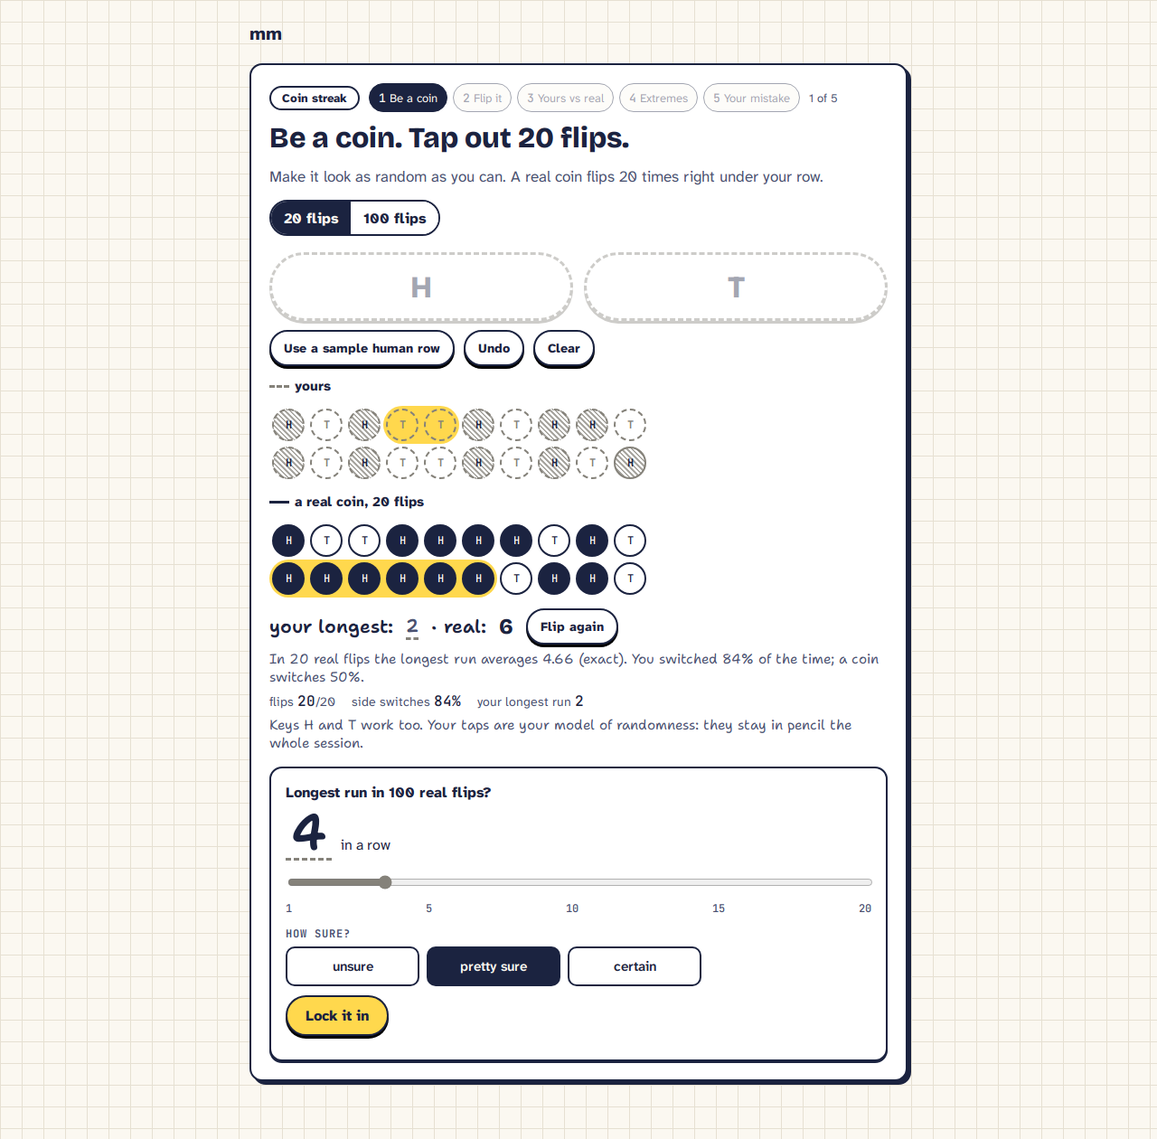
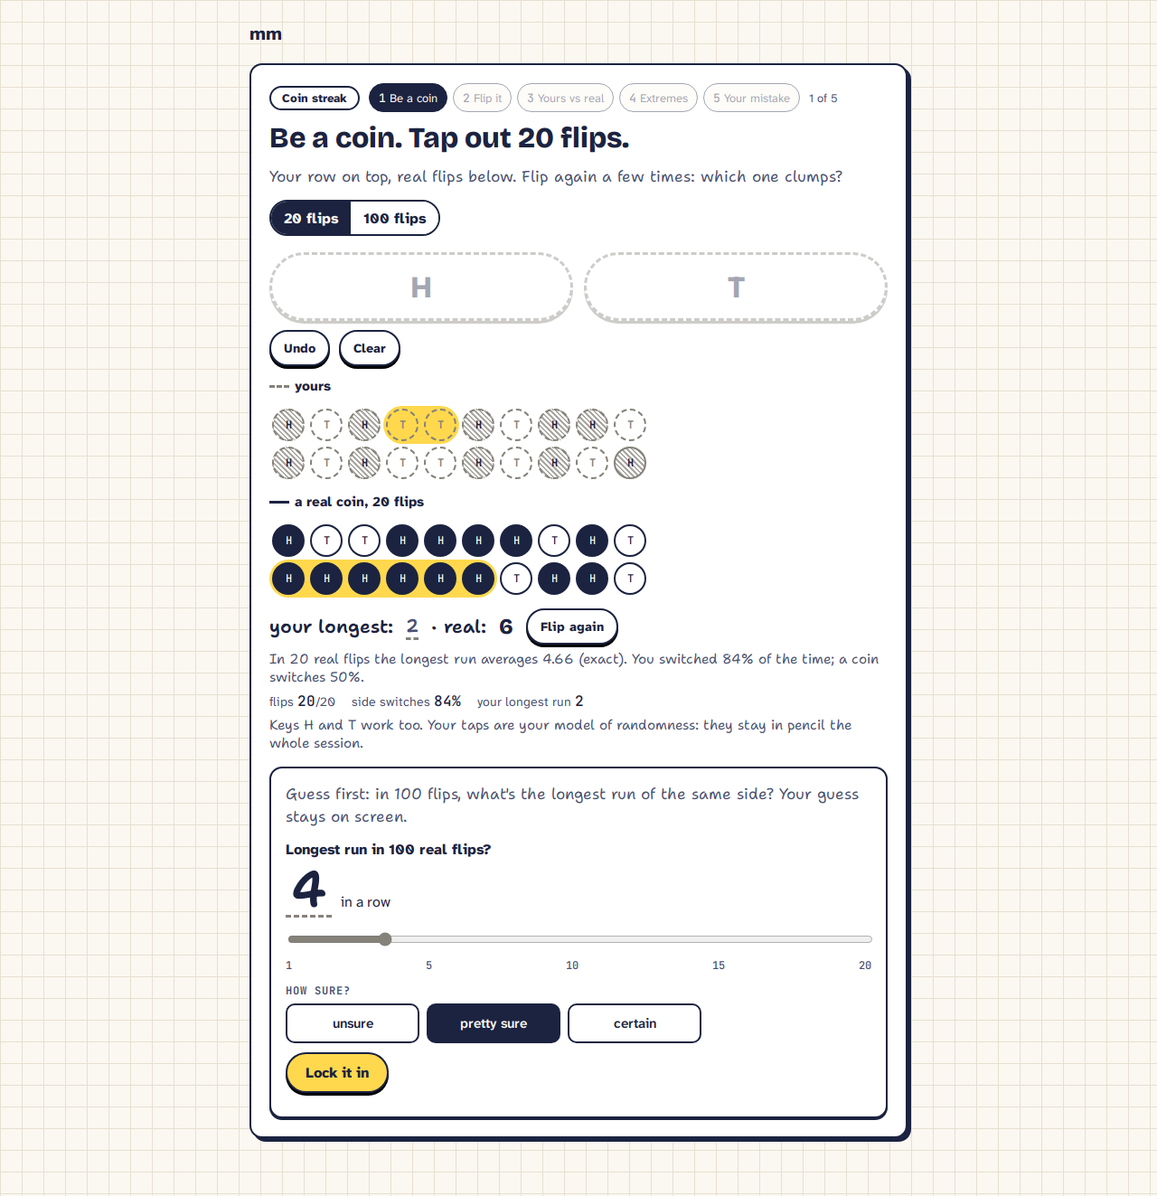
Coin session: guidance line on every step, no sample row, review nits
- one guidance line per screen (hand font, ink-soft), from the table in docs/experience.md; step 1 switches to the C2 line once the real row deals in
- drop 'Use a sample human row' and the sample fallback: you lock with your own 20+ taps
- guess slider starts unset, lock waits for a pick
- first real 100 tops out at 8 (seed 25), a typical row
- extremes: the ink truth number is the biggest type
- the dealt real row scrolls into view (360x640 had it below the fold)
- rematch rows stay plain ink after picking
- Home blurb says 20 flips; App test now checks the one coin entry on Home
- session test timeout 60 s; fresh screenshots

Changed region(s): [[0.2188, 0.0, 0.7812, 0.9595], [0.0, 0.9905, 1.0, 1.0]]

diff --git a/web/src/sessions/coin/CoinSession.tsx b/web/src/sessions/coin/CoinSession.tsx
@@ -7,7 +7,6 @@ import { fmt, pct, reducedMotion, sampleLabel } from './hooks'
 import {
   expectedLongest,
   flipSeq,
-  HUMAN_SAMPLE,
   longestOfFlips,
   longestRun,
   pLongestAtLeast,
@@ -49,10 +48,11 @@ export function CoinSession({ onDone }: { onDone: () => void }) {
   const dealRand = useRef(rng(10))
   const [deal, setDeal] = useState<Side[]>([]) // real flips dealt under your row, same length
   const [dealKey, setDealKey] = useState(0)
-  const [guess, setGuess] = useState(4)
+  const [guessSet, setGuessSet] = useState<number | null>(null) // unset until you move the slider: no anchor
+  const guess = guessSet ?? 0
   const [conf, setConf] = useState<Confidence | null>(null)
   const [locked, setLocked] = useState(false)
-  const rand = useRef(rng(20))
+  const rand = useRef(rng(25)) // seed: the first real 100 tops out at 8, a typical row (avg 6.98)
   const [real, setReal] = useState<Side[]>([])
   const [flipKey, setFlipKey] = useState(0)
   const [hist, setHist] = useState<number[]>(() => new Array(KMAX + 1).fill(0))
@@ -62,7 +62,7 @@ export function CoinSession({ onDone }: { onDone: () => void }) {
   const [newest, setNewest] = useState(0)
   const [running, setRunning] = useState(false)
   const heading = useRef<HTMLHeadingElement>(null)
-  const model = mine.length >= MIN_TAPS ? mine : HUMAN_SAMPLE
+  const model = mine // you can only lock (and leave step 1) with 20+ taps of your own
 
   const dealRow = useCallback((n: number) => {
     setDeal(flipSeq(n, dealRand.current))
@@ -192,11 +192,12 @@ export function CoinSession({ onDone }: { onDone: () => void }) {
       )}
       <section className="coin-step" aria-labelledby="coin-h">
         {step === 0 && (
-          <TapStep h={heading} len={len} pickLen={pickLen} deal={deal} dealKey={dealKey} onDeal={() => dealRow(len)} mine={mine} setMine={editMine} tap={tap} guess={guess} setGuess={setGuess} conf={conf} setConf={setConf} locked={locked} onLock={lock} onNext={() => go(1)} />
+          <TapStep h={heading} len={len} pickLen={pickLen} deal={deal} dealKey={dealKey} onDeal={() => dealRow(len)} mine={mine} setMine={editMine} tap={tap} guess={guessSet} setGuess={setGuessSet} conf={conf} setConf={setConf} locked={locked} onLock={lock} onNext={() => go(1)} />
         )}
         {step === 1 && (
           <>
             <h2 id="coin-h" ref={heading} tabIndex={-1}>Now a real coin. Flip it.</h2>
+            <p className="guide">Each dot is one real round of 100 flips. See where most of them land compared with your guess.</p>
             <div className="readout">
               <div><div className="big num">{longestRun(real)}</div><div className="lbl">longest run this time</div></div>
               <div><div className="big num">{pct(switchRate(real))}</div><div className="lbl">side switches</div></div>
@@ -216,7 +217,7 @@ export function CoinSession({ onDone }: { onDone: () => void }) {
             <Next onClick={() => go(2)}>Next: your coin vs the real one</Next>
           </>
         )}
-        {step === 2 && <CompareStep h={heading} model={model} real={real} usedSample={mine.length < MIN_TAPS} onNext={() => go(3)} />}
+        {step === 2 && <CompareStep h={heading} model={model} real={real} onNext={() => go(3)} />}
         {step === 3 && <ExtremeStep h={heading} model={model} guess={guess} onNext={() => go(4)} />}
         {step === 4 && (
           <CardStep h={heading} model={model} guess={guess} round={round} conf={conf ?? 'pretty sure'} verdict={verdictFor(item, answer, E100)} misId={misconceptionFor(item, answer)} onRestart={restart} onDone={onDone} />
@@ -246,14 +247,27 @@ function Next({ onClick, children }: { onClick: () => void; children: React.Reac
   )
 }
 
-function TapStep(p: { h: H; len: number; pickLen: (n: number) => void; deal: Side[]; dealKey: number; onDeal: () => void; mine: Side[]; setMine: (m: Side[]) => void; tap: (c: Side) => void; guess: number; setGuess: (g: number) => void; conf: Confidence | null; setConf: (c: Confidence) => void; locked: boolean; onLock: () => void; onNext: () => void }) {
+function TapStep(p: { h: H; len: number; pickLen: (n: number) => void; deal: Side[]; dealKey: number; onDeal: () => void; mine: Side[]; setMine: (m: Side[]) => void; tap: (c: Side) => void; guess: number | null; setGuess: (g: number) => void; conf: Confidence | null; setConf: (c: Confidence) => void; locked: boolean; onLock: () => void; onNext: () => void }) {
   const { mine, locked, h, setMine, tap, guess, setGuess, conf, setConf, onLock, onNext, len, pickLen, deal, dealKey, onDeal } = p
   const full = mine.length >= len && deal.length === len
-  const ready = mine.length >= MIN_TAPS && conf != null
+  const ready = mine.length >= MIN_TAPS && guess != null && conf != null
+  // When the real row deals in (tap 20, Flip again), bring it on screen: on a 360x640 phone it lands below the fold.
+  const realRef = useRef<HTMLParagraphElement>(null)
+  const seenDeal = useRef(dealKey)
+  useEffect(() => {
+    if (!full || seenDeal.current === dealKey) return
+    seenDeal.current = dealKey
+    realRef.current?.scrollIntoView?.({ block: 'nearest', behavior: reducedMotion() ? 'auto' : 'smooth' })
+  }, [full, dealKey])
+  const lockText = mine.length < MIN_TAPS ? 'Lock it in' : guess == null ? 'Move the slider to guess' : conf ? 'Lock it in' : 'Pick how sure you are'
   return (
     <>
       <h2 id="coin-h" ref={h} tabIndex={-1}>Be a coin. Tap out {len} flips.</h2>
-      <p className="lede">Make it look as random as you can. A real coin flips {len} times right under your row.</p>
+      <p className="guide">
+        {full
+          ? 'Your row on top, real flips below. Flip again a few times: which one clumps?'
+          : `Make up ${len} coin flips the way you think a fair coin looks. We'll compare yours with real ones.`}
+      </p>
       <div className="lenpick" role="radiogroup" aria-label="row length">
         {[20, 100].map((n) => (
           <button key={n} role="radio" aria-checked={len === n} className={len === n ? 'on' : ''} disabled={locked} onClick={() => pickLen(n)}>
@@ -266,7 +280,6 @@ function TapStep(p: { h: H; len: number; pickLen: (n: number) => void; deal: Sid
         <button className="tap" aria-label="Tails (key T)" disabled={locked || mine.length >= len} onClick={() => tap('T')}>T</button>
       </div>
       <div className="row">
-        <button className="btn ghost small" disabled={locked} onClick={() => setMine(HUMAN_SAMPLE.slice(0, len))}>Use a sample human row</button>
         <button className="btn ghost small" disabled={locked || !mine.length} onClick={() => setMine(mine.slice(0, -1))}>Undo</button>
         <button className="btn ghost small" disabled={locked || !mine.length} onClick={() => setMine([])}>Clear</button>
       </div>
@@ -276,7 +289,7 @@ function TapStep(p: { h: H; len: number; pickLen: (n: number) => void; deal: Sid
         <>
           <h3 className="rowname"><i className="l-truth" />a real coin, {len} flips</h3>
           <CoinGrid key={dealKey} seq={deal} hiLongest fresh={!reducedMotion()} cols={len === 20 ? 10 : undefined} label={`${len} real flips, longest run ${longestRun(deal)}`} />
-          <p className="tally" aria-live="polite">
+          <p className="tally" aria-live="polite" ref={realRef}>
             your longest: <b className="you">{longestRun(mine)}</b> · real: <b className="ink">{longestRun(deal)}</b>
             <button className="btn ghost small" onClick={onDeal}>Flip again</button>
           </p>
@@ -292,12 +305,26 @@ function TapStep(p: { h: H; len: number; pickLen: (n: number) => void; deal: Sid
       </div>
       <p className="note">Keys H and T work too. Your taps are your model of randomness: they stay in pencil the whole session.</p>
       <div className={`card guessbox ${locked ? 'is-locked' : ''}`}>
+        <p className="guide">Guess first: in 100 flips, what's the longest run of the same side? Your guess stays on screen.</p>
         <label htmlFor="coin-guess" className="q">Longest run in 100 real flips?</label>
         <div className="guessnum">
-          <span className="big">{guess}</span><span>in a row</span>
+          <span className="big">{guess ?? '?'}</span><span>in a row</span>
           {locked && <span className="stamp locked">locked</span>}
         </div>
-        <input id="coin-guess" type="range" min={1} max={20} step={1} value={guess} disabled={locked} onChange={(e) => setGuess(+e.target.value)} />
+        <input
+          id="coin-guess"
+          type="range"
+          className={guess == null ? 'unset' : ''}
+          min={1}
+          max={20}
+          step={1}
+          value={guess ?? 10}
+          aria-valuetext={guess == null ? 'not set yet' : `${guess} in a row`}
+          disabled={locked}
+          onChange={(e) => setGuess(+e.target.value)}
+          // a click right on the resting thumb doesn't fire change; it still counts as a pick
+          onPointerUp={(e) => guess == null && setGuess(+e.currentTarget.value)}
+        />
         <div className="ticks"><span>1</span><span>5</span><span>10</span><span>15</span><span>20</span></div>
         <div className="tag sure">how sure?</div>
         <div className="confs" role="group" aria-label="how sure are you">
@@ -309,7 +336,7 @@ function TapStep(p: { h: H; len: number; pickLen: (n: number) => void; deal: Sid
           {locked ? (
             <button className="btn" onClick={onNext}>Back to the real coin →</button>
           ) : (
-            <button className="btn lockbtn" disabled={!ready} onClick={onLock}>{mine.length < MIN_TAPS || conf ? 'Lock it in' : 'Pick how sure you are'}</button>
+            <button className="btn lockbtn" disabled={!ready} onClick={onLock}>{lockText}</button>
           )}
           {!locked && mine.length < MIN_TAPS && <span className="note">tap at least {MIN_TAPS} flips first ({mine.length} so far)</span>}
         </div>
@@ -318,7 +345,7 @@ function TapStep(p: { h: H; len: number; pickLen: (n: number) => void; deal: Sid
   )
 }
 
-function CompareStep({ h, model, real, usedSample, onNext }: { h: H; model: Side[]; real: Side[]; usedSample: boolean; onNext: () => void }) {
+function CompareStep({ h, model, real, onNext }: { h: H; model: Side[]; real: Side[]; onNext: () => void }) {
   const nReal = runs(real).filter((r) => r.len >= 5).length
   const nMine = runs(model).filter((r) => r.len >= 5).length
   const sw = switchRate(model)
@@ -326,7 +353,7 @@ function CompareStep({ h, model, real, usedSample, onNext }: { h: H; model: Side
   return (
     <>
       <h2 id="coin-h" ref={h} tabIndex={-1}>Your coin vs the real coin</h2>
-      {usedSample && <p className="note">You tapped fewer than {MIN_TAPS}, so this uses the sample human row.</p>}
+      <p className="guide">Your row next to a real 100, runs of 5 or more marked. Which one clumps?</p>
       <div className="pair">
         <div>
           <h3><i className="l-you" />yours{scaled}</h3>
@@ -381,9 +408,10 @@ function ExtremeStep({ h, model, guess, onNext }: { h: H; model: Side[]; guess: 
   return (
     <>
       <h2 id="coin-h" ref={h} tabIndex={-1}>More flips, longer streaks?</h2>
+      <p className="guide">Drag to flip more or fewer coins. Watch how slowly, but surely, streaks grow.</p>
       <div className="ext-head">
         <div><div className="n num">{fmt(n)}</div><small>flips</small></div>
-        <div><div className="v num">{truthNow.toFixed(2)}</div><small>expected longest run, real coin (exact)</small></div>
+        <div><div className="v truth num">{truthNow.toFixed(2)}</div><small>expected longest run, real coin (exact)</small></div>
         <div><div className="v you">{youNow.toFixed(1)}</div><small>a coin that switches like you (exact)</small></div>
       </div>
       <label htmlFor="coin-n" className="q">Number of flips</label>
@@ -436,6 +464,7 @@ function CardStep(p: {
   return (
     <>
       <h2 id="coin-h" ref={h} tabIndex={-1} className="sr-only">Your mistake, named</h2>
+      <p className="guide">This is the mistake your guess points to, and the one idea that fixes it.</p>
       <div className="card verdict-card">
         <span className={`stamp ${verdict === 'called' ? 'called' : verdict === 'close' ? 'close' : 'mistake'}`}>{stamp}</span>
         <p className="said">
@@ -452,7 +481,7 @@ function CardStep(p: {
         {m && <p className="why">{m.refutation}</p>}
         <p className="src">
           {m?.source_url ? <><a href={m.source_url} target="_blank" rel="noreferrer">Source</a>: {m.source_note}. </> : null}
-          Numbers here are exact (dynamic programming over run length) unless marked simulated. The sample human row's 68% switch rate is our own parameter (unverified).
+          Numbers here are exact (dynamic programming over run length) unless marked simulated.
         </p>
         <WhichIsReal
           round={round}
@@ -505,6 +534,7 @@ function WhichIsReal({ round, onPick }: { round: NonNullable<ReturnType<typeof s
   return (
     <div className="tryit">
       <div className="tag">try it on</div>
+      <p className="guide">One more: spot the real coin. Does the idea stick?</p>
       <p className="q">One of these {n}-flip rows was flipped, one was made up by a person. Which is the real coin?</p>
       <div className="choice">
         {pair.map(([id, s]) => (
@@ -520,7 +550,7 @@ function WhichIsReal({ round, onPick }: { round: NonNullable<ReturnType<typeof s
             }}
           >
             <b>{up(id)}</b>
-            <CoinGrid seq={s} cols={10} hiLongest={!!pick} mine={!!pick && id !== real} label={`${up(id)}: ${s.join('')}`} />
+            <CoinGrid seq={s} cols={10} hiLongest={!!pick} label={`${up(id)}: ${s.join('')}`} />
             {pick && <span className="tile-note">{id === real ? 'real coin' : 'made up'}, longest run {longestRun(s)}</span>}
           </button>
         ))}

diff --git a/web/src/sessions/coin/CoinSession.test.tsx b/web/src/sessions/coin/CoinSession.test.tsx
@@ -15,6 +15,8 @@ describe('coin streak session', () => {
     vi.stubGlobal('matchMedia', (q: string) => ({ matches: q.includes('reduce'), media: q }))
     const done = vi.fn()
     render(<CoinSession onDone={done} />)
+    expect(screen.getByText(/^Make up 20 coin flips/)).toBeTruthy()
+    expect(screen.queryByText(/sample human row/)).toBeNull() // no fill-for-me: the point is your own pattern
 
     const lock = screen.getByText('Lock it in') as HTMLButtonElement
     expect(lock.disabled).toBe(true)
@@ -23,9 +25,13 @@ describe('coin streak session', () => {
     expect(screen.getByText('20', { selector: '.stats b' })).toBeTruthy()
     // the row is full: 20 real flips deal in under it, with the tally
     expect(screen.getByText('a real coin, 20 flips')).toBeTruthy()
+    expect(screen.getByText(/^Your row on top, real flips below. Flip again/)).toBeTruthy() // guidance moves on once the deal lands
     expect(screen.getByText(/your longest:/).textContent).toMatch(/your longest: 1 · real: \d+/)
     expect(screen.getByText(/In 20 real flips the longest run averages 4\.66/)).toBeTruthy()
     fireEvent.click(screen.getByText('Flip again'))
+    // the guess starts unset (no anchor): lock waits for the slider to move
+    expect(lock.textContent).toBe('Move the slider to guess')
+    expect(screen.getByText('?', { selector: '.guessnum .big' })).toBeTruthy()
     fireEvent.change(screen.getByLabelText('Longest run in 100 real flips?'), { target: { value: '3' } })
     // like the birthday session: pick how sure before locking
     expect(lock.disabled).toBe(true)
@@ -36,6 +42,7 @@ describe('coin streak session', () => {
     await act(async () => vi.advanceTimersByTime(50))
 
     expect(screen.getByText('Now a real coin. Flip it.')).toBeTruthy()
+    expect(screen.getByText(/^Each dot is one real round of 100 flips/)).toBeTruthy() // guidance line
     expect(screen.getByText('6.98')).toBeTruthy() // exact mean in ink
     expect(screen.getByText('97.2%')).toBeTruthy() // exact P(run of 5+)
     expect(screen.getByText(/real average 6\.98 \(exact\)/)).toBeTruthy() // truth line is labeled
@@ -50,15 +57,19 @@ describe('coin streak session', () => {
 
     next(/your coin vs the real one/)
     expect(screen.getByText('Your coin vs the real coin')).toBeTruthy()
+    expect(screen.getByText(/^Your row next to a real 100/)).toBeTruthy()
     expect(screen.getByText(/You switched 100% of the time/)).toBeTruthy()
 
     next(/push it to 10,000 flips/)
+    expect(screen.getByText(/^Drag to flip more or fewer coins/)).toBeTruthy()
     fireEvent.click(screen.getByRole('button', { name: '10,000' }))
     expect(screen.getByText('13.62')).toBeTruthy()
     fireEvent.click(screen.getByRole('button', { name: '10' }))
     expect(screen.getByText('3.66')).toBeTruthy()
 
     next(/what your taps say/)
+    expect(screen.getByText(/^This is the mistake your guess points to/)).toBeTruthy()
+    expect(screen.getByText(/^One more: spot the real coin/)).toBeTruthy()
     expect(screen.getAllByText('Random means evenly mixed').length).toBeGreaterThan(0)
     expect(screen.getByText(/A real coin goes past 3 in/)).toBeTruthy()
     expect(screen.getByText(/You said/).textContent).toBe('You said 3 (certain). A real 100 averages 6.98.')
@@ -67,6 +78,8 @@ describe('coin streak session', () => {
     fireEvent.click(screen.getByRole('button', { name: /^A: / }))
     expect(screen.getByText(/B was the real coin/)).toBeTruthy()
     expect(screen.getByText(/In 20 real flips/)).toBeTruthy()
+    // both rematch rows stay plain ink: pencil only ever means "you"
+    expect(document.querySelectorAll('.tryit .mine').length).toBe(0)
     // saved to the same notebook as the birthday session, once
     expect(screen.getByText('Saved.')).toBeTruthy()
     const saved = JSON.parse(localStorage.getItem('mm.sessions') ?? '[]')
@@ -79,7 +92,7 @@ describe('coin streak session', () => {
     expect(JSON.parse(localStorage.getItem('mm.sessions') ?? '[]')).toHaveLength(1)
     vi.useRealTimers()
     vi.unstubAllGlobals()
-  }, 30000)
+  }, 60000)
 
   it('keeps the 20-flip deal clean: extra taps, undo, clear, length toggles', () => {
     render(<CoinSession onDone={() => {}} />)
@@ -125,7 +138,7 @@ describe('coin streak session', () => {
     expect(flips()).toBe('flips 20/20')
     expect(realRow()).toBeTruthy()
     expect(document.body.textContent).not.toMatch(/NaN/)
-  }, 30000)
+  }, 60000)
 })
 
 describe('sample label', () => {

diff --git a/web/src/sessions/coin/coin.css b/web/src/sessions/coin/coin.css
@@ -11,7 +11,10 @@
 .coin-session h2:focus { outline: none; }
 .coin-session h3 { margin: 0; }
 .coin-session .num { font-family: var(--font-mono); font-variant-numeric: tabular-nums; }
-.coin-session .lede { font-size: 17px; line-height: 1.45; margin: 0 0 14px; color: var(--ink-soft); }
+/* the one guidance line per screen, like the birthday session's subtitle */
+.coin-session .guide { font: 17px/1.45 var(--font-hand); color: var(--ink-soft); margin: 0 0 14px; max-width: 46em; }
+.coin-session .tryit .guide { margin: 4px 0 8px; }
+.coin-session input[type='range'].unset { opacity: .55; }
 .coin-session .note { font-family: var(--font-hand); color: var(--ink-soft); font-size: 15px; margin: 6px 0; }
 .coin-session .q { font-weight: 800; display: block; margin: 0 0 6px; }
 .coin-session .tag { font: 600 12px var(--font-mono); text-transform: uppercase; letter-spacing: .08em; color: var(--ink-soft); }
@@ -137,10 +140,12 @@
 
 /* step 4 */
 .coin-session .ext-head { display: flex; gap: 12px 24px; flex-wrap: wrap; align-items: flex-end; margin: 8px 0 14px; }
-.coin-session .ext-head .n, .coin-session .ext-head .v { font: 800 44px/1 var(--font-display); }
+.coin-session .ext-head .n, .coin-session .ext-head .v { font: 800 34px/1 var(--font-display); }
+/* the ink truth is the biggest number on the screen */
+.coin-session .ext-head .v.truth { font-size: 56px; }
 .coin-session .ext-head .v.you { font-family: var(--font-hand); font-weight: 600; color: var(--ink-soft); border-bottom: 3px dashed var(--pencil); }
 .coin-session .ext-head small { display: block; font-size: 13px; color: var(--ink-soft); margin-top: 4px; max-width: 14em; }
-@media (max-width: 600px) { .coin-session .ext-head .n, .coin-session .ext-head .v { font-size: 34px; } }
+@media (max-width: 600px) { .coin-session .ext-head .n, .coin-session .ext-head .v { font-size: 26px; } .coin-session .ext-head .v.truth { font-size: 42px; } }
 .coin-session .hand-ticks button { font: 600 14px var(--font-hand); background: none; border: 0; padding: 6px 2px; min-height: 32px; color: var(--ink-soft); }
 .coin-session .hand-ticks button.on { color: var(--ink); text-decoration: underline 3px var(--marker); }
 .coin-session .breaknote { font: 600 18px var(--font-hand); margin: 10px 0 0; min-height: 2.6em; line-height: 1.4; }

diff --git a/web/src/App.test.tsx b/web/src/App.test.tsx
@@ -1,36 +1,19 @@
 // @vitest-environment jsdom
-import { act, cleanup, fireEvent, render, screen } from '@testing-library/react'
-import { afterEach, describe, expect, it, vi } from 'vitest'
+import { cleanup, fireEvent, render, screen } from '@testing-library/react'
+import { afterEach, describe, expect, it } from 'vitest'
 import App from './App'
 
 afterEach(cleanup)
 
-describe('coin streak round', () => {
-  it('plays predict → lock → reveal', async () => {
-    vi.useFakeTimers()
+describe('coin streak on Home', () => {
+  it('shows one coin entry, and it opens the coin session', () => {
     render(<App />)
-    fireEvent.click(screen.getByText('Streaks in coin flips'))
-
-    const lock = screen.getByText('Lock it in') as HTMLButtonElement
-    expect(lock.disabled).toBe(true)
-    fireEvent.change(screen.getByLabelText('your guess'), { target: { value: '3' } })
-    fireEvent.click(screen.getByText('certain'))
-    expect(lock.disabled).toBe(false)
-    fireEvent.click(lock)
-
-    expect(screen.getByText(/locked: 3 · certain/)).toBeTruthy()
-    expect(screen.queryByText('Way off')).toBeNull() // no truth before the beat
-    await act(async () => vi.advanceTimersByTime(500))
-    expect(screen.getByText('Way off')).toBeTruthy()
-    expect(screen.getByText(/Random means evenly mixed/)).toBeTruthy()
-    expect(screen.getByLabelText(/average 7\.0/)).toBeTruthy()
-
-    fireEvent.click(screen.getByText('Next'))
-    fireEvent.click(screen.getByText('B (has runs of 4)'))
-    fireEvent.click(screen.getByText('pretty sure'))
-    fireEvent.click(screen.getByText('Lock it in'))
-    await act(async () => vi.advanceTimersByTime(500))
-    expect(screen.getByText('Called it')).toBeTruthy()
-    vi.useRealTimers()
+    // the old "Streaks in coin flips" round shares the coin-streak slug, so the session replaces it
+    expect(screen.queryByText('Streaks in coin flips')).toBeNull()
+    expect(screen.getAllByText('Be a coin')).toHaveLength(1)
+    expect(screen.getByText(/Tap out 20 flips/)).toBeTruthy()
+    fireEvent.click(screen.getByText('Be a coin'))
+    expect(screen.getByText('Be a coin. Tap out 20 flips.')).toBeTruthy()
+    expect((screen.getByText('Lock it in') as HTMLButtonElement).disabled).toBe(true)
   })
 })

diff --git a/web/src/sessions/coin/math.test.ts b/web/src/sessions/coin/math.test.ts
@@ -2,7 +2,6 @@ import { describe, expect, it } from 'vitest'
 import {
   expectedLongest,
   expectedLongestSlow,
-  HUMAN_SAMPLE,
   longestOfFlips,
   longestRun,
   pLongestAtLeast,
@@ -81,11 +80,10 @@ describe('sequence helpers', () => {
     expect(longestRun([])).toBe(0)
   })
 
-  it('sample human row: 100 flips, 68 switches, longest run 4', () => {
-    expect(HUMAN_SAMPLE.length).toBe(100)
-    expect(Math.round(switchRate(HUMAN_SAMPLE) * 99)).toBe(68)
-    expect(longestRun(HUMAN_SAMPLE)).toBe(4)
-    expect(repeatRateLike(HUMAN_SAMPLE)).toBeCloseTo(31 / 99)
+  it('repeat rate from your taps: 1 - switch rate, clamped to 0.05..0.9', () => {
+    expect(repeatRateLike(toSides('HTTHHHTH'))).toBeCloseTo(1 - 4 / 7)
+    expect(repeatRateLike(toSides('HTHTHTHT'))).toBe(0.05)
+    expect(repeatRateLike(toSides('HHHHHHHH'))).toBe(0.9)
   })
 
   it('the which-is-real pair: A tops out at 2, B at 4', () => {

diff --git a/web/src/sessions/coin/math.ts b/web/src/sessions/coin/math.ts
@@ -136,8 +136,3 @@ export function longestOfFlips(n: number, rand: () => number): number {
 
 export const toSides = (s: string): Side[] => s.split('').filter((c): c is Side => c === 'H' || c === 'T')
 
-// A sample "human" sequence: 66% switch chance, runs capped at 4 (68 switches in 99, longest run 4).
-// It mimics what people inventing random sequences tend to write; the exact 68% is our parameter (unverified).
-export const HUMAN_SAMPLE = toSides(
-  'HTTHTHTHTHTTHHHHTHTTHTTTTHTHHTTHTHHTHTHHTTHTHHTHTHHTHTTTHTHTHTHTTHHHHTTHHHTTHTHTTHTTHTTHTHTHHTHTHTHH',
-)

diff --git a/web/src/sessions/coin/index.tsx b/web/src/sessions/coin/index.tsx
@@ -4,7 +4,7 @@ import { CoinSession } from './CoinSession'
 export const session: SessionDef = {
   slug: 'coin-streak',
   title: 'Be a coin',
-  blurb: 'Tap out 100 flips, then watch a real coin out-streak you.',
+  blurb: 'Tap out 20 flips, then watch a real coin out-streak you.',
   order: 2,
   Component: CoinSession,
 }
